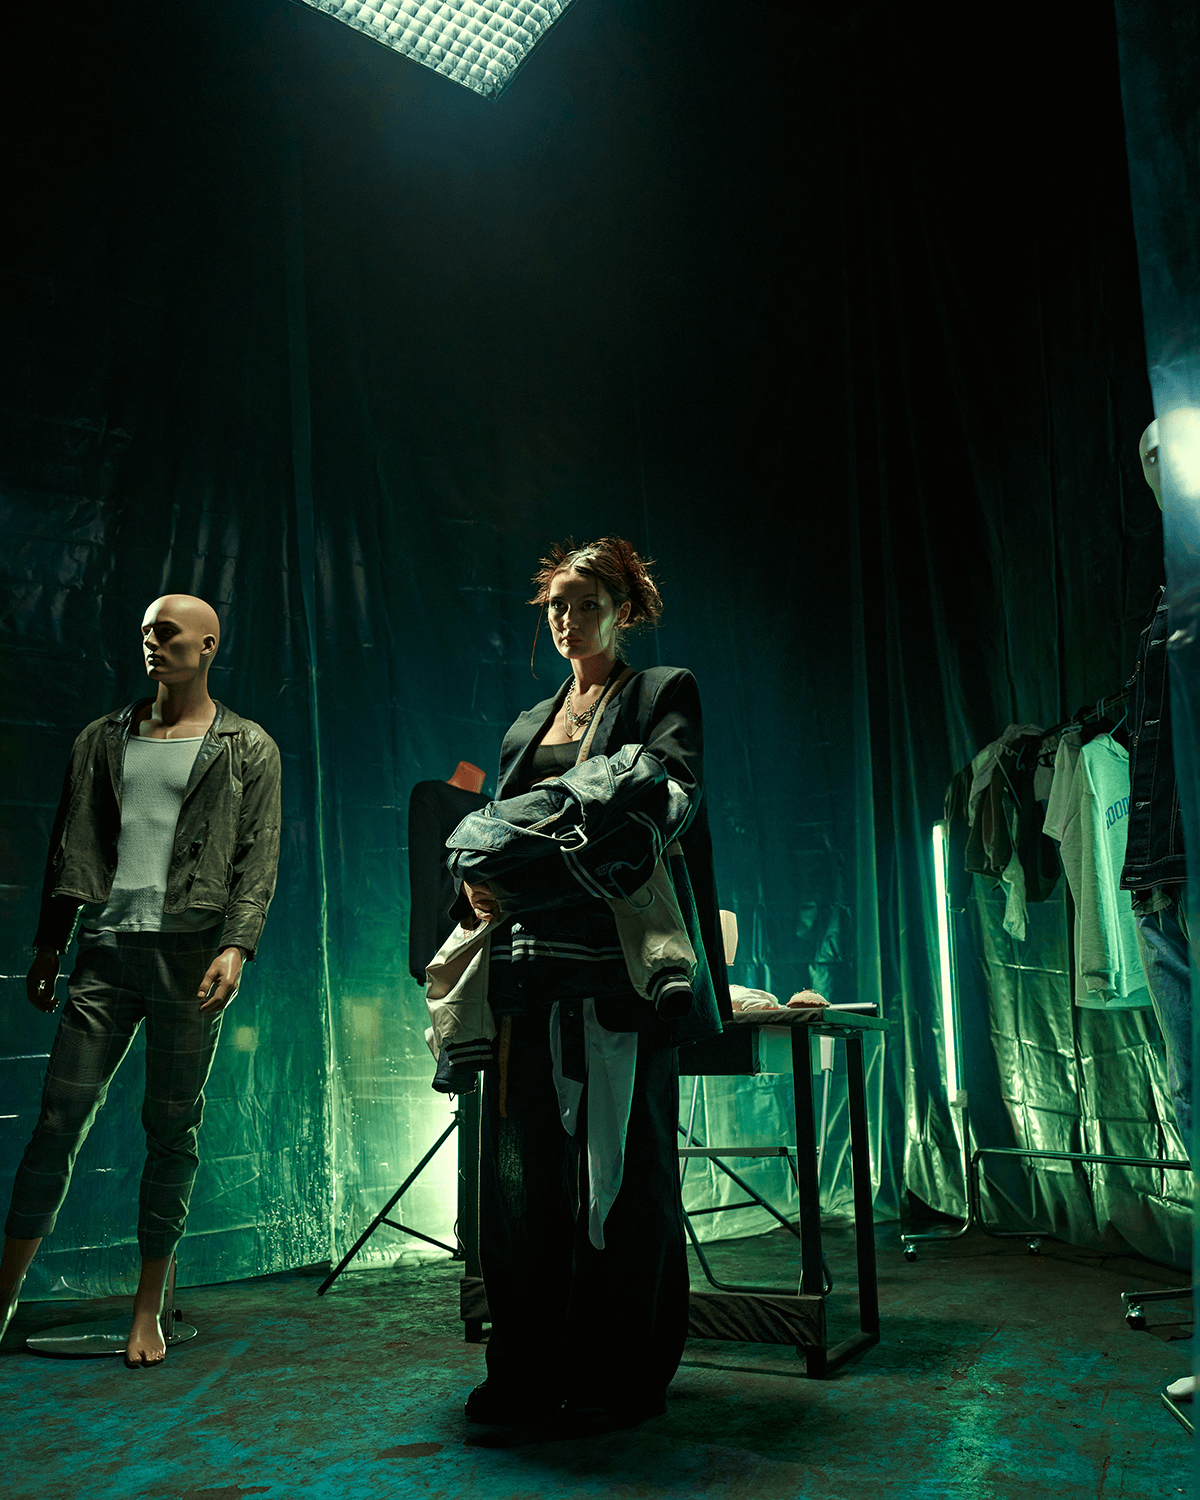
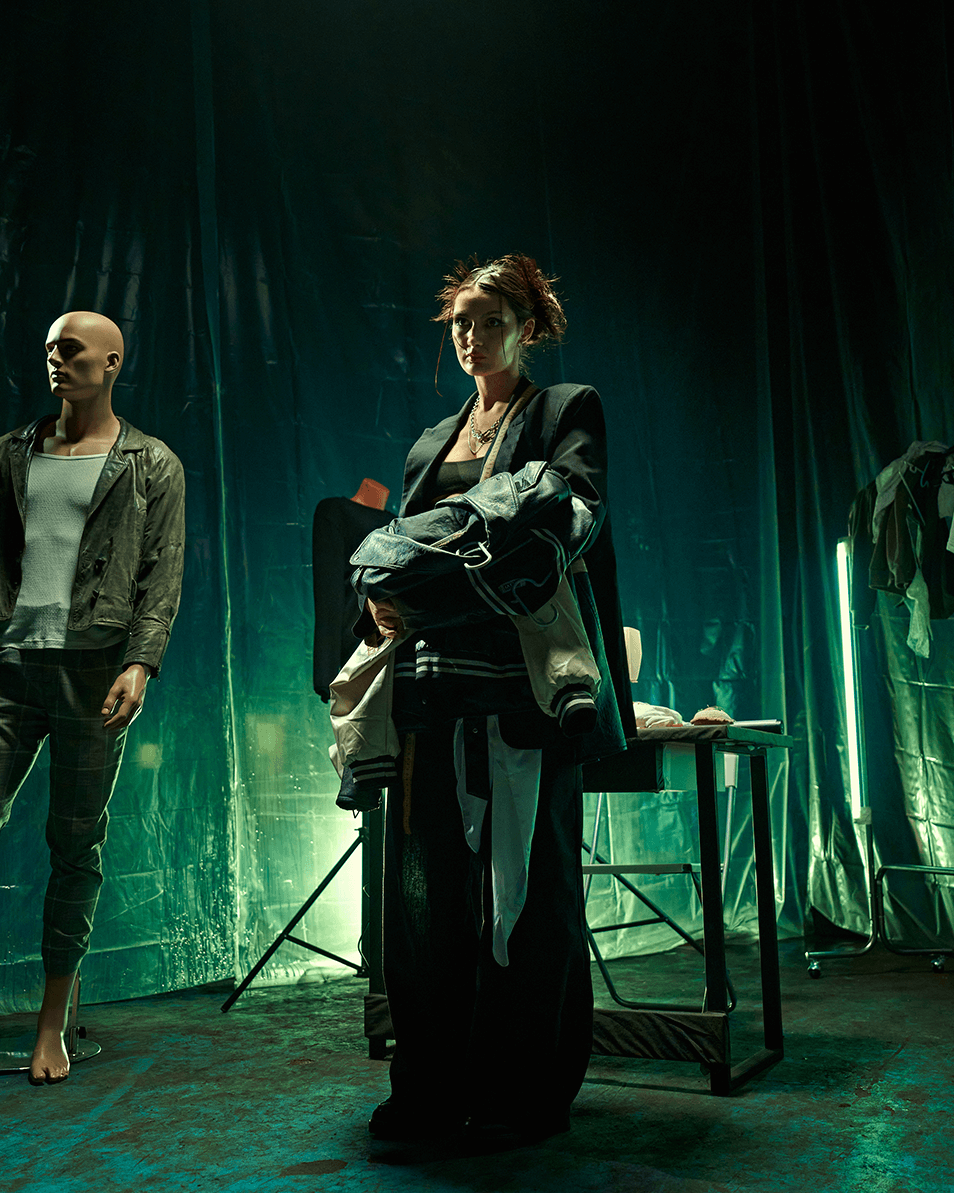
Another services fix

diff --git a/src/components/ServicesBlock.module.css b/src/components/ServicesBlock.module.css
@@ -128,7 +128,7 @@
 /* Карточки услуг */
 .services__imagewrapper {
   position: relative;
-  aspect-ratio: 1/2;
+  aspect-ratio: 2/3;
   width: 100%;
   cursor: pointer;
   overflow: hidden;
